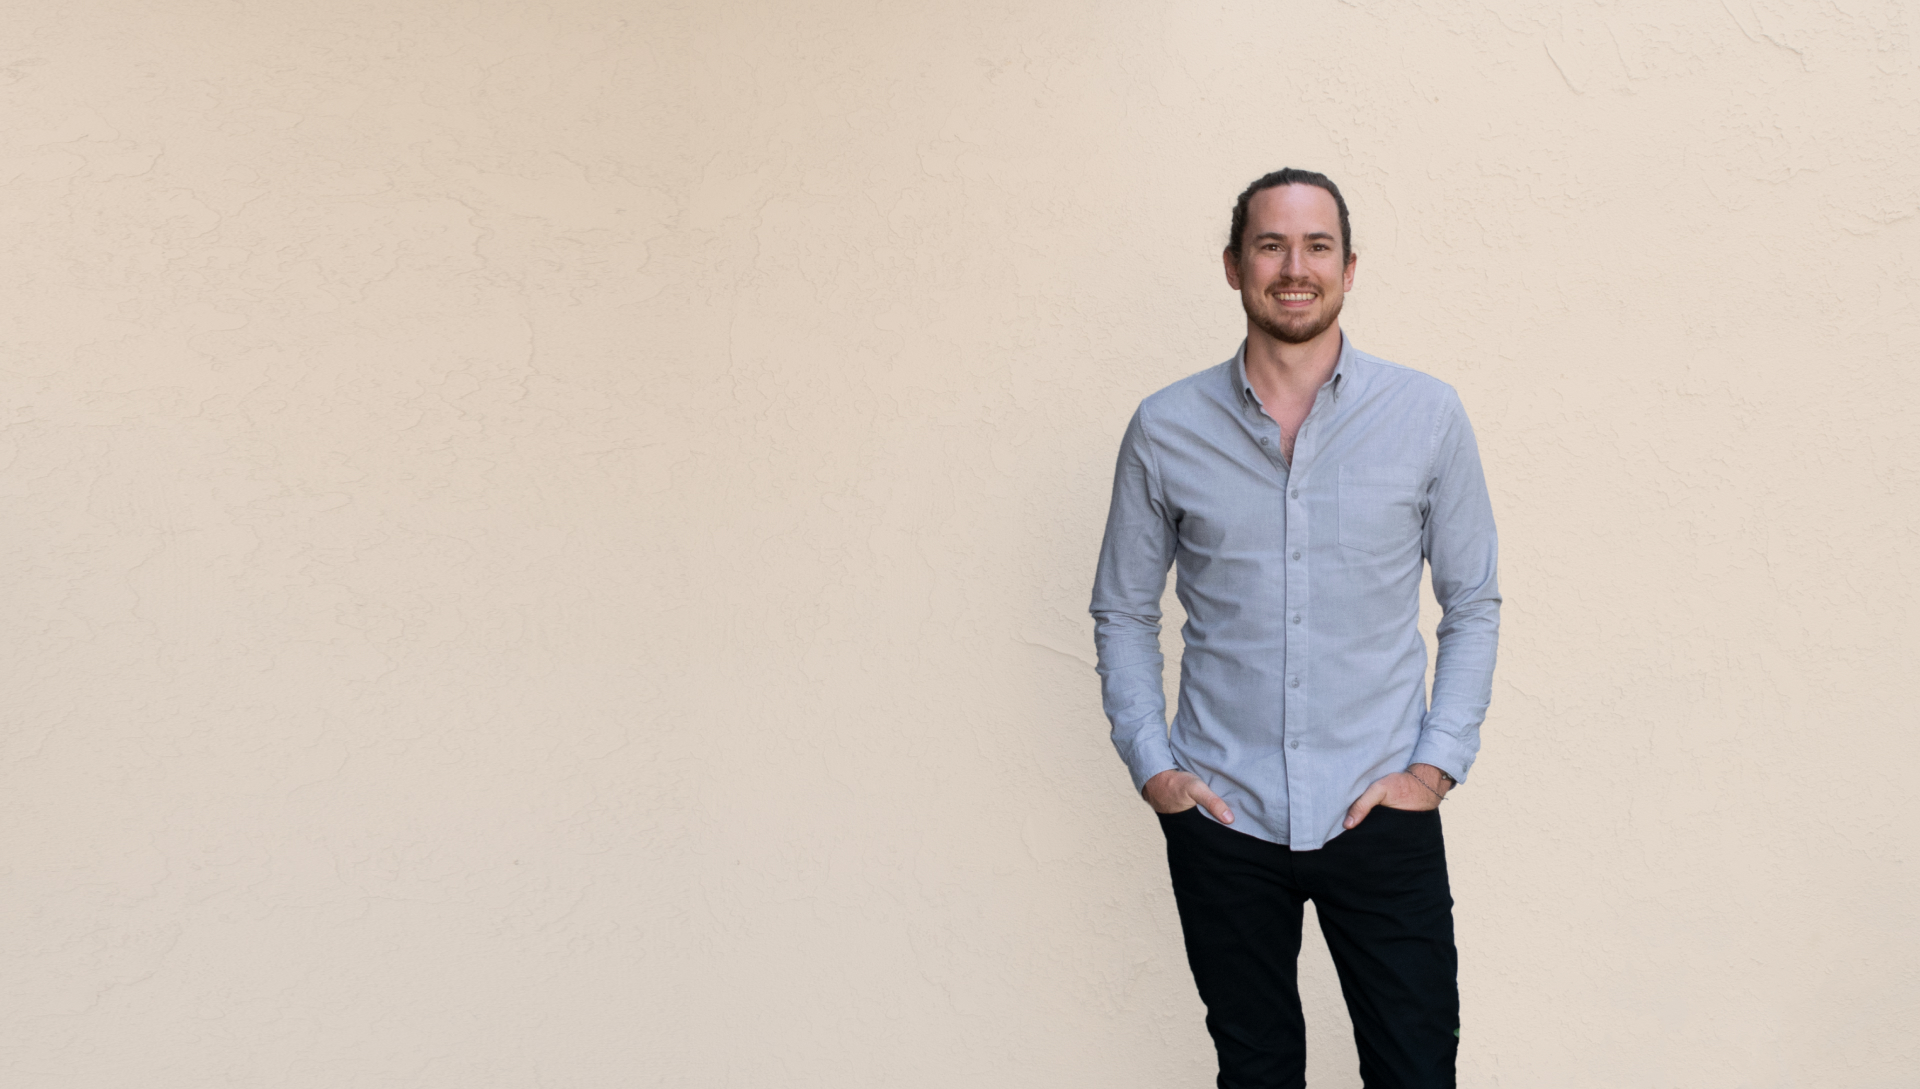
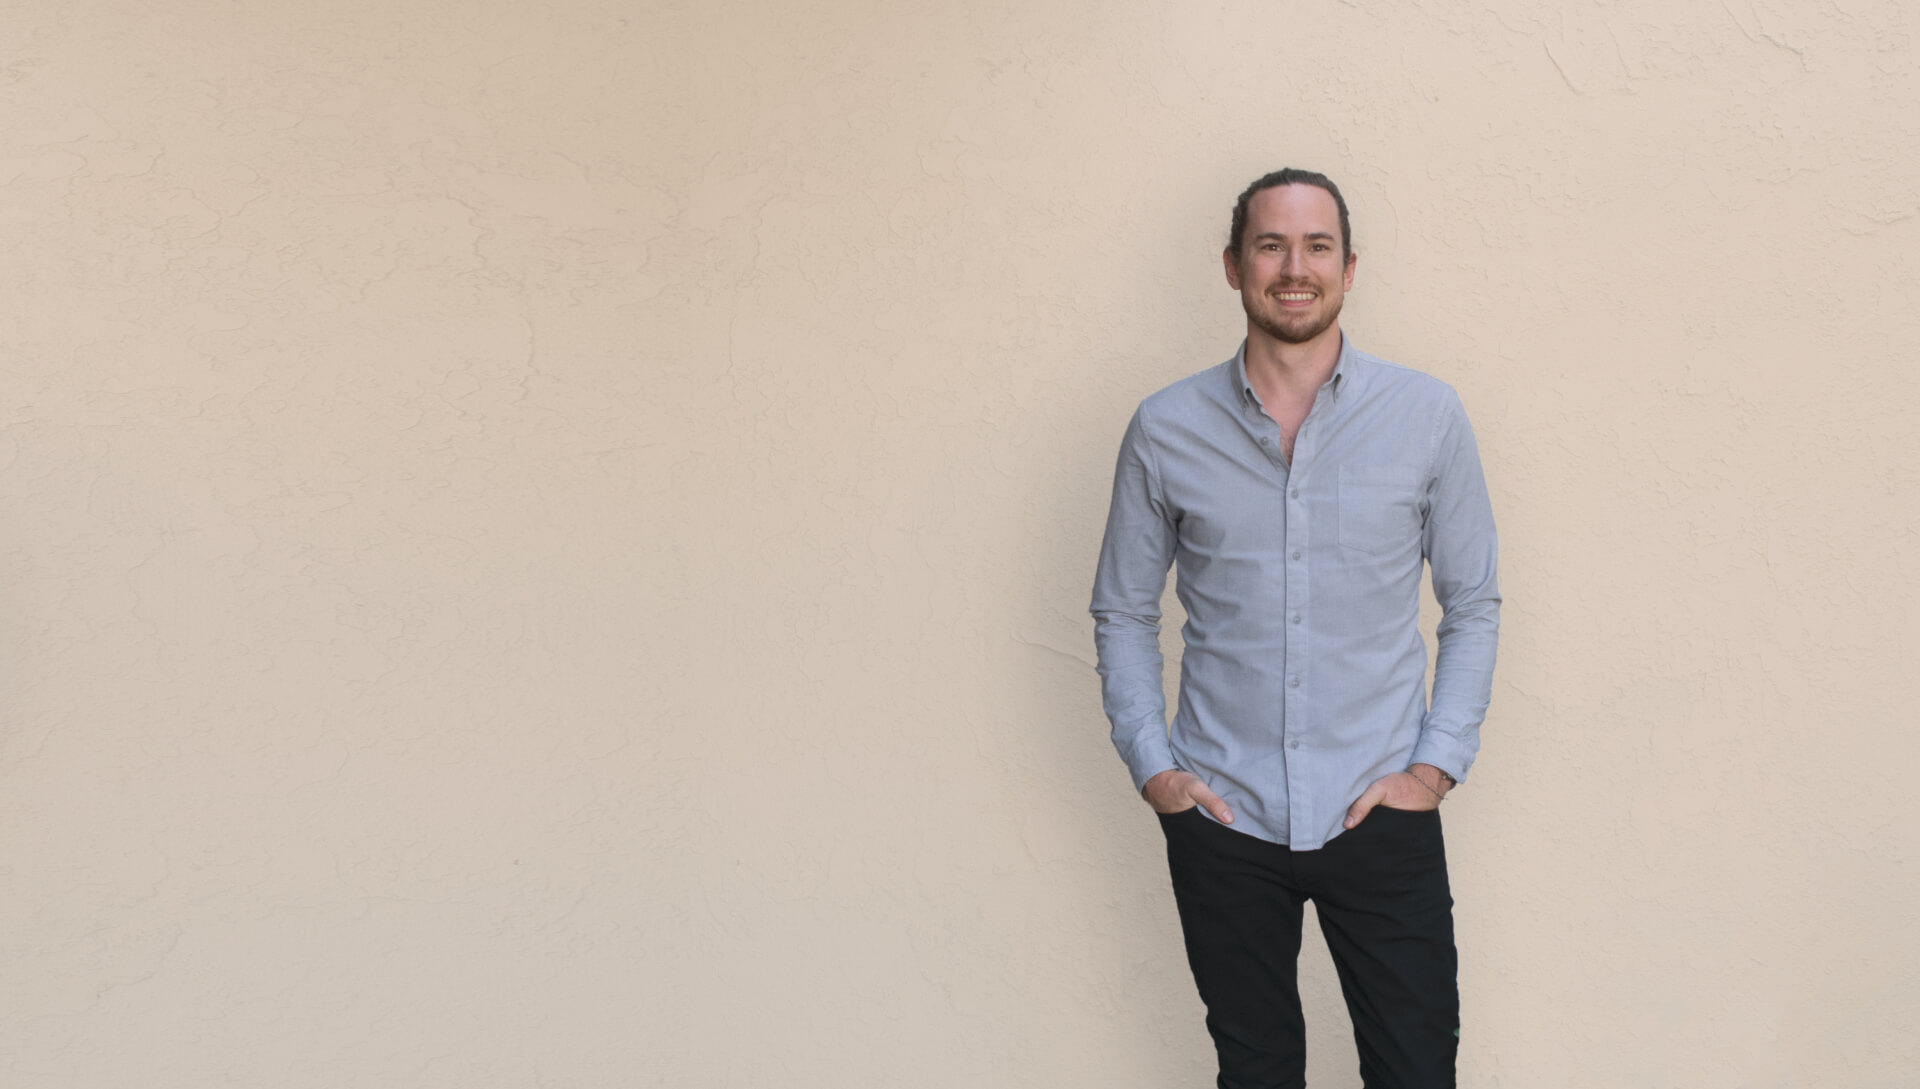
update homepage background image

Changed region(s): [[0.5312, 0.1561, 0.75, 1.0], [0.7188, 0.5308, 0.75, 0.6244], [0.75, 0.7181, 0.7812, 0.7493]]

diff --git a/src/components/RecentWork/index.js b/src/components/RecentWork/index.js
@@ -2,7 +2,6 @@ import React from 'react'
 import styles from './styles.module.scss'
 import Plx from 'react-plx'
 import AudioPlayer from 'components/AudioPlayer'
-import ProgressiveImage from 'react-progressive-image'
 
 const plxDividerContainer = [
     {

diff --git a/src/pages/index.module.scss b/src/pages/index.module.scss
@@ -81,7 +81,7 @@ body {
         height: 100vh;
         min-width: 768px;
         img {
-            opacity: 0.9;
+            opacity: 1;
             width: 100%;
             height: 100%;
             object-fit: cover;
